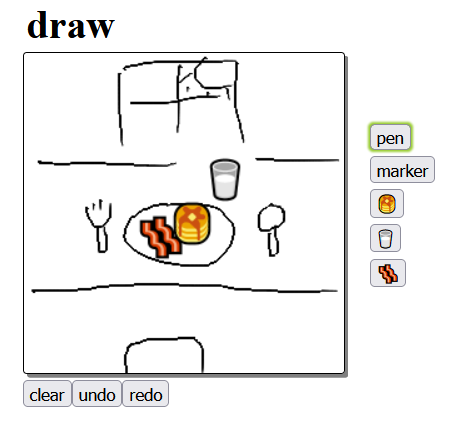
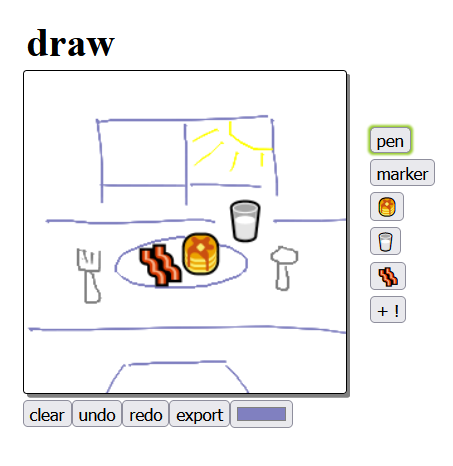
readme update

Changed region(s): [[0.0309, 0.0304, 0.9581, 0.9742]]

diff --git a/README.md b/README.md
@@ -1,4 +1,6 @@
 # CMPM 121 D2 Project
 
-This is the starting point for your CMPM 121 D2 project. Students should make sure to remove _this_ content from their README.md file and replace it with their own project documentation.
+Canvas-based emote sticker doodle app, now with color picker and export capabilities!
+
 ![rough doodle of a breakfast scene made in a simple web page canvas app with emote stickers](image.png)
+!["pancake good :)" written below pancake and green heart emotes](sketchpad.png)
